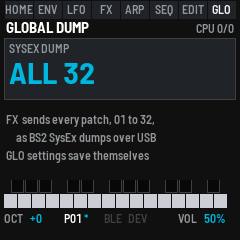
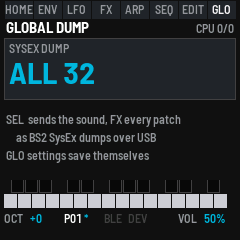
MASTER: a patch change keeps the arp and sequencer playing; SEL does nothing there, the sound's SysEx dump moves to GLO DUMP's SEL; each Patch arrow lights alone
- PRESET on MASTER keeps arp_on, arp_mode and latch when the arp or sequencer is on (the new patch's own sequence, tempo and swing play; nothing is written into its slot)
- SEL on MASTER: nothing; the "SEL: the sound out as SysEx" line removed. GLO DUMP: SEL sends the sound, FX every patch (as before)
- The Patch buttons light by the last turn's way (ui.pdir), down left, up right
- Manual and its screenshots updated; tests/master.txt new, tests/sysex.txt dumps from GLO DUMP

Changed region(s): [[0.0292, 0.4667, 0.7583, 0.525]]

diff --git a/app.c b/app.c
@@ -1353,6 +1353,7 @@ static struct {
     uint8_t rec_held;                    /* REC down, its release still to act (REC + OCT+ took it: none) */
     int32_t turns[NE];                   /* detents since boot, per encoder */
     uint32_t turned_at[NE];              /* when each was last turned: it shows lit for a moment */
+    int8_t pdir;                         /* the MASTER's Patch buttons: the way PRESET last went, -1 down, +1 up */
     uint8_t page;                        /* PG_*: what the encoders set */
     uint8_t step;                        /* the sequencer's cursor: the step PRESET picks, recording writes */
     uint8_t rec_n;                       /* the steps recorded since REC (0: the next note starts a new sequence) */
@@ -1940,10 +1941,18 @@ static int knob_turn(uint32_t k, int32_t e)
     const param_t *q = knob_param(k);
     if (ui.page == PG_PATCH && k == EN_PRESET) {   /* a slot: its sound at once (what was not saved is left) */
         uint32_t s = (uint32_t)clamp((int32_t)set.slot + e, 0, NSLOTS - 1);
+        ui.pdir = (int8_t)(e < 0 ? -1 : 1);
         if (s != set.slot) {
+            uint8_t on = patch.arp_on, mode = patch.arp_mode, latch = patch.latch;
             seq_keep(1);                     /* (the sequence made here, kept before it goes) */
             set.slot = (uint8_t)s;
             patch = bank.p[s];
+            if (on) {                        /* the arp or the sequencer playing: on still, as it was (the new
+                                              * sound's own notes, sequence and tempo; not kept into its slot) */
+                patch.arp_on = on;
+                patch.arp_mode = mode;
+                patch.latch = latch;
+            }
             set_dirty = 1;
         }
         return 1;
@@ -2517,8 +2526,10 @@ static void input(void)
             ui.osc_sel ^= 1u;
             ui.redraw = 1;
             app_say("OSC SELECT", ui.osc_sel ? "2" : "1");
-        } else if (k == B_SEL && ui.page == PG_PATCH)   /* the MASTER's: the sound out as a Bass Station II patch dump */
+        } else if (k == B_SEL && ui.page == PG_GDUMP)   /* GLO DUMP's: the sound out as a Bass Station II patch dump */
             sysex_send();
+        else if (k == B_SEL && ui.page == PG_PATCH)
+            ;                                /* (the MASTER's: nothing) */
         else if (k == B_REC)
             ui.rec_held = 1;                 /* on release (unless OCT+ comes first) */
         else if (k == B_SAVE && ui.page == PG_GRND)   /* the seed shown into its slot */
@@ -3202,7 +3213,7 @@ static void seg7(int32_t x, int32_t y, char c)
 }
 /* the MASTER (the Bass Station II's, the first page): the Volume (the FM-1's MASTER knob, shown), the name; the display
  * (the patch, P01..P32, its dot lit while it has changes not saved), the Save button and the Patch buttons (PRESET
- * picks; SAVE keeps; SEL sends the sound out as a Bass Station II dump) */
+ * picks; SAVE keeps) */
 static void master_draw(void)
 {
     static const int32_t EDGE[1] = {2};
@@ -3237,9 +3248,9 @@ static void master_draw(void)
     cv_rect(96, 92, 34, 16, P_KSHADOW);      /* the buttons: Save, Patch down, Patch up */
     cv_rect(98, 94, 30, 12, set_dirty ? RGB(90, 18, 34) : grey(34));
     cv_rect(140, 92, 40, 30, P_KSHADOW);
-    cv_rect(142, 94, 36, 26, knob_lit(EN_PRESET) ? RGB(0, 70, 86) : grey(34));
+    cv_rect(142, 94, 36, 26, knob_lit(EN_PRESET) && ui.pdir < 0 ? RGB(0, 70, 86) : grey(34));   /* (lit: the way it went) */
     cv_rect(188, 92, 40, 30, P_KSHADOW);
-    cv_rect(190, 94, 36, 26, knob_lit(EN_PRESET) ? RGB(0, 70, 86) : grey(34));
+    cv_rect(190, 94, 36, 26, knob_lit(EN_PRESET) && ui.pdir > 0 ? RGB(0, 70, 86) : grey(34));
     cv_line(151, 107, 167, 101, P_SILK);     /* their arrows */
     cv_line(151, 107, 167, 113, P_SILK);
     cv_line(167, 101, 167, 113, P_SILK);
@@ -3250,7 +3261,6 @@ static void master_draw(void)
     cv_rect(140, 134, 88, 1, P_SILK);        /* Value: the line under them, the name in it */
     cv_rect(170, 130, 28, 9, grey(25));
     print_c(184, 128, "Value", P_SILK);
-    cv_text(96, 144, &FONT_T, "SEL: the sound out as SysEx", P_DIM);
 }
 /* a panel button at x, y (w x h): its shadow, its face (lit: red, as the Bass Station II's are), its name on it */
 static void panel_button(int32_t x, int32_t y, int32_t w, int32_t h, const char *name, int lit, int turning)
@@ -3712,7 +3722,7 @@ static void panel_draw(void)                 /* the section's card: its picture,
         if (knob_name(i))
             chip(120, 2 + (int32_t)i * 21, 116, i);
     if (ui.page == PG_GDUMP) {
-        cv_text(6, 76, &FONT_XS, "FX  sends every patch, 01 to 32,", P_LABEL);
+        cv_text(6, 76, &FONT_XS, "SEL  sends the sound, FX every patch", P_LABEL);
         cv_text(6, 94, &FONT_XS, "     as BS2 SysEx dumps over USB", P_LABEL);
         cv_text(6, 112, &FONT_XS, "GLO settings save themselves", P_LABEL);
     } else if (ui.page == PG_GRND) {         /* no knobs: what the buttons do here */
@@ -4103,6 +4113,8 @@ int app_expect(const char *what, int *got)
         *got = ui.page;
     else if (!strcmp(what, "slot"))
         *got = set.slot;
+    else if (!strcmp(what, "pdir"))          /* the MASTER's Patch button lit: -1 down, +1 up */
+        *got = ui.pdir;
     else if (!strcmp(what, "chan"))          /* the GLO pages' settings */
         *got = set.chan;
     else if (!strcmp(what, "local"))

diff --git a/docs/MANUAL.md b/docs/MANUAL.md
@@ -96,7 +96,7 @@ the keys' reach lights OCT-, one above lights OCT+.
 | --- | --- |
 | Keys | Play the voice, louder the harder they land. The last key pressed sounds, and the pitch glides to it if GLIDE is up. Each key also goes out as MIDI (see MIDI and audio). |
 | OCT− · OCT+ | The octave, from −2 to +2. |
-| SEL | On the OSCILLATORS pages, Osc Select: which oscillator their knobs set, 1 or 2. On the MASTER page, the sound out as a SysEx dump. While the sequencer records, the step's legato (see SEQ). |
+| SEL | On the OSCILLATORS pages, Osc Select: which oscillator their knobs set, 1 or 2. On GLOBAL DUMP, the sound out as a SysEx dump. While the sequencer records, the step's legato (see SEQ). |
 | MASTER | The volume. |
 | REC | A random sound (see below). On GLOBAL SYSTEM it finds a Bluetooth MIDI device instead. |
 | REC + OCT+ | Hold REC and press OCT+: AFX mode on or off. |
@@ -451,9 +451,9 @@ saved, the Save button and the Patch buttons.
 
 | Control | What it does |
 | --- | --- |
-| PRESET | The Patch buttons: picks a patch, P01 to P32, and plays it at once. Changes you haven't saved to the patch you leave are lost. |
+| PRESET | The Patch buttons: picks a patch, P01 to P32, and plays it at once; the button the way you turned lights. Changes you haven't saved to the patch you leave are lost. An arp or a sequence that is playing keeps playing, in the new sound. |
 | SAVE | Stores the sound into the patch shown. |
-| SEL | Sends the sound out over USB as a Bass Station II SysEx dump. See SysEx. |
+| SEL | Nothing here. The sound goes out as a SysEx dump from GLOBAL DUMP (see SysEx). |
 
 **SAVE** works on every page but GLOBAL RND (where it keeps a seed). It stores the sound into its patch and keeps the
 settings: the octave and the patch you're on (the FM-1 starts on it next time). While something isn't saved, SAVE is
@@ -475,13 +475,13 @@ its sounds, and Bass Station II patches (`.syx` files) can play on the FM-1. Sys
 
 **From the FM-1 to an editor:**
 
-- On the MASTER page (HOME), press SEL: the sound goes out as one dump, named Bass Smth 2 and its number (Bass Smth 2 01: a patch name holds 16 characters).
+- On GLOBAL DUMP (GLO three times), press SEL: the sound goes out as one dump, named Bass Smth 2 and its number (Bass Smth 2 01: a patch name holds 16 characters).
   The screen says SYSEX SENT.
 - On GLOBAL DUMP (GLO three times), press FX: all 32 patches go out as a bank, Bass Smth 2 01 to Bass Smth 2 32, each
   addressed to its own patch number (0 to 31), as a Bass Station II bank file is. Record them into one `.syx` file
   and it's a backup: sent back, each patch returns to its own slot. The patch you're on goes as it sounds now, with
   changes not yet saved.
-- A computer can ask for the sound: SysEx `F0 7D 42 53 32 01 F7` sends the same dump as SEL on the MASTER page.
+- A computer can ask for the sound: SysEx `F0 7D 42 53 32 01 F7` sends the same dump as SEL on GLOBAL DUMP.
   `F0 7D 42 53 32 03 F7` sends the whole bank, as FX on GLOBAL DUMP. `F0 7D 42 53 32 02 F7` asks for the RND seed
   shown instead (see RND seeds).
 
@@ -588,7 +588,7 @@ is heard.
 
 ![GLO MIDI: CC CHAN, the channel in and out, the clock, then CHANNEL, LOCAL, AT OUT and CLOCK](img/screen-glo-midi.png "GLO: MIDI")
 ![GLO SYS: the tempo's source, Bluetooth, then TUNE, CLK OUT, VELOCITY and BLE](img/screen-glo-sys.png "GLO, again: SYS")
-![GLO DUMP: the bank, what FX does here, and that the GLO settings save themselves](img/screen-glo-dump.png "GLO, again: DUMP")
+![GLO DUMP: the bank, what SEL and FX do here, and that the GLO settings save themselves](img/screen-glo-dump.png "GLO, again: DUMP")
 
 GLO + OCT+ (hold GLO, press OCT+) opens one more page, GLOBAL RND, for the RND Synth's seeds: see RND seeds.
 
